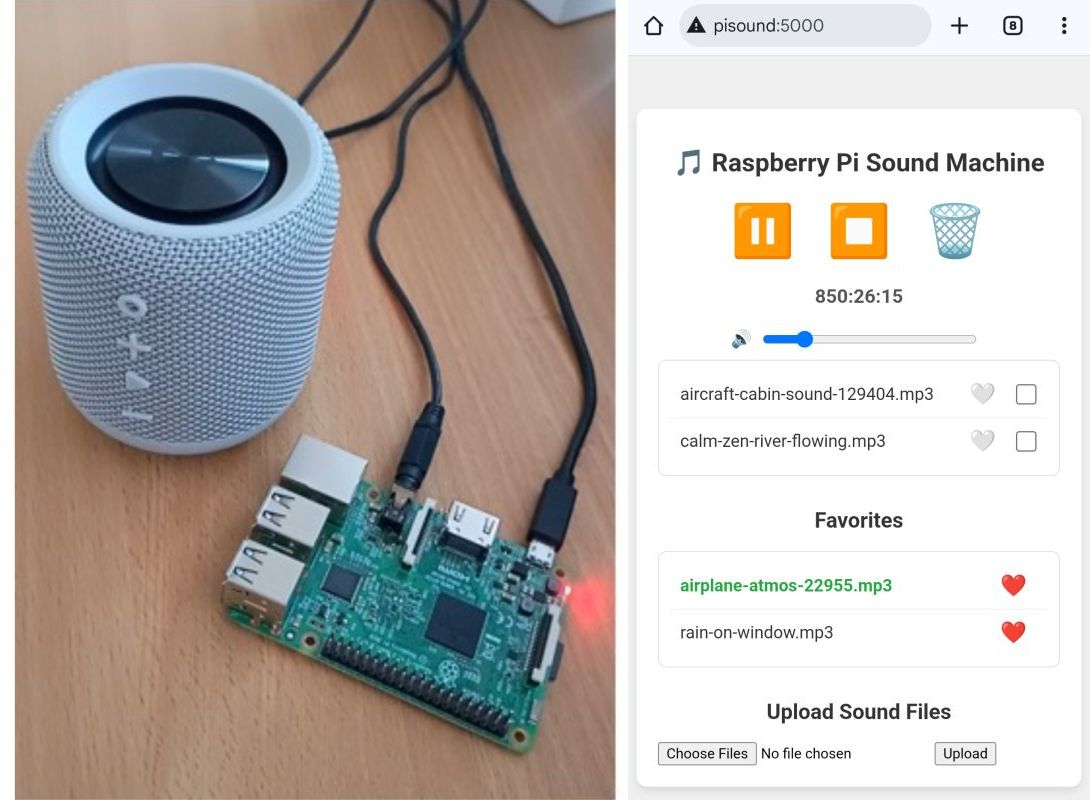
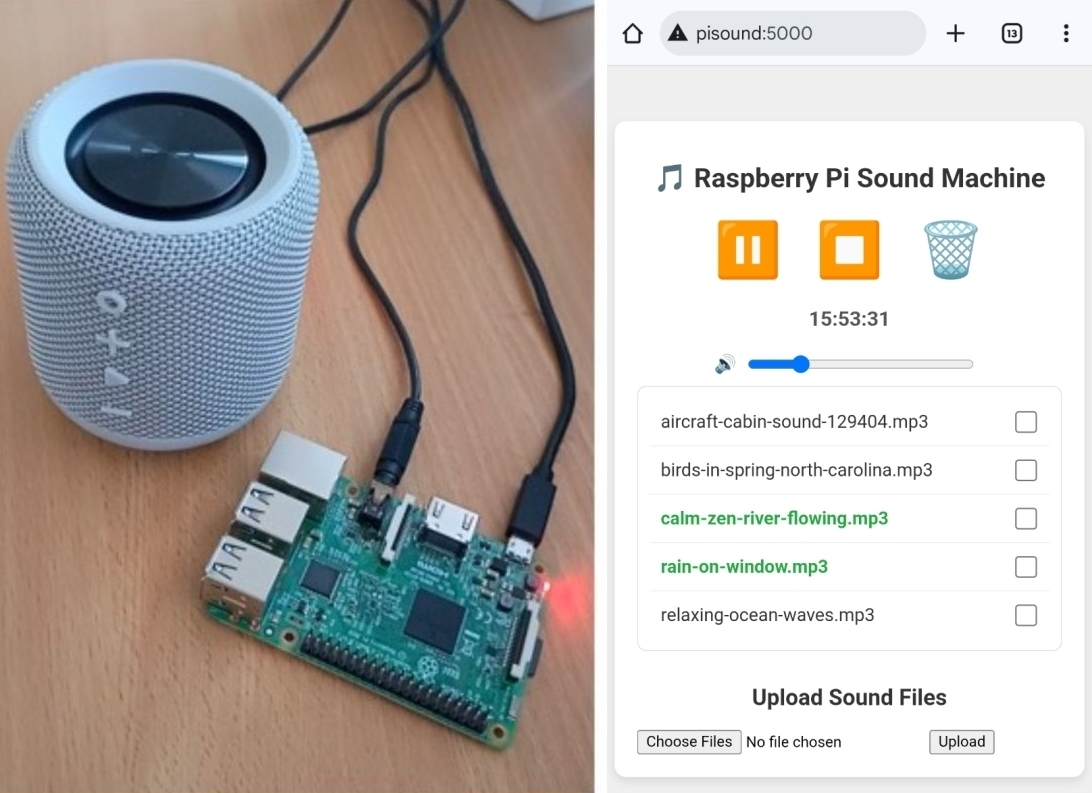
removal of favorites sounds (#37)

diff --git a/rpi_sound_machine/templates/index.html b/rpi_sound_machine/templates/index.html
@@ -50,7 +50,6 @@
                                 {{ sound_file }}
                             </a>
                             <div class="icon-group">
-                                <a href="/toggle_favorite/{{ sound_file }}" class="favorite-toggle">🤍</a>
                                 <input type="checkbox" name="files_to_delete" value="{{ sound_file }}" class="delete-checkbox">
                             </div>
                         </li>
@@ -58,28 +57,6 @@
                     </ul>
                 {% else %}
                     <p>No sound files uploaded.</p>
-                {% endif %}
-            </div>
-
-            <h2>Favorites</h2>
-            <div class="list-section">
-                {% if favorites %}
-                    <ul class="file-list">
-                        {% for sound_file in favorites %}
-                        <li class="file-list-item">
-                            <a href="#" class="file-name-link"
-                                data-file-name="{{ sound_file }}"
-                            >
-                                {{ sound_file }}
-                            </a>
-                            <div class="icon-group">
-                                <a href="/toggle_favorite/{{ sound_file }}" class="favorite-toggle">❤</a>
-                            </div>
-                        </li>
-                        {% endfor %}
-                    </ul>
-                {% else %}
-                    <p>No favorite sounds yet.</p>
                 {% endif %}
             </div>
         </form>

diff --git a/rpi_sound_machine/static/style.css b/rpi_sound_machine/static/style.css
@@ -52,14 +52,6 @@ hr { border: 0; border-top: 1px solid #ccc; margin: 20px 0; }
     align-items: center;
     flex-shrink: 0;
 }
-.favorite-toggle {
-    background: none;
-    border: none;
-    font-size: 20px;
-    cursor: pointer;
-    padding: 0 10px;
-    text-decoration: none;
-}
 .delete-checkbox {
     transform: scale(1.2);
     margin-left: 10px;

diff --git a/rpi_sound_machine/sound_machine.py b/rpi_sound_machine/sound_machine.py
@@ -25,8 +25,6 @@ pygame.mixer.set_num_channels(16)
 
 # Define the directory where your sound files are stored
 SOUND_DIR = Path(__file__).parent.parent / 'sounds'
-# Define the path for the favorites file
-FAVORITES_FILE = Path(__file__).parent.parent / 'favorites.txt'
 # Define the path for the volume file
 VOLUME_FILE = Path(__file__).parent.parent / 'volume.json'
 
@@ -83,38 +81,19 @@ class SoundControl:
         self.volume_save_timer = Timer(5.0, self.save_volume)
         self.volume_save_timer.start()
 
-    @staticmethod
-    def get_favorites() -> set[str]:
-        if not FAVORITES_FILE.is_file():
-            return set()
-        with Path.open(FAVORITES_FILE) as f:
-            return {line.strip() for line in f}
-
-    @staticmethod
-    def save_favorites(favorites_set: set[str]) -> None:
-        with Path.open(FAVORITES_FILE, 'w') as f:
-            f.writelines(f'{filename}\n' for filename in sorted(favorites_set))
-
 
 sound_control = SoundControl()
 
 
 @app.route('/')
 def home() -> BaseResponse:
-    all_files = [f.name for f in SOUND_DIR.glob('*') if f.is_file()]
-    favorites_set = sound_control.get_favorites()
-
-    # Separate the files into favorites and non-favorites
-    favorite_files = sorted([f for f in all_files if f in favorites_set])
-    non_favorite_files = sorted([f for f in all_files if f not in favorites_set])
-
+    sound_files = sorted([f.name for f in SOUND_DIR.glob('*') if f.is_file()])
     sound_state = sound_control.get_state_as_dict()
 
     return render_template(
         'index.html',
         sound_state=sound_state,
-        sound_files=non_favorite_files,
-        favorites=favorite_files,
+        sound_files=sound_files,
     )
 
 
@@ -239,7 +218,6 @@ def upload_file() -> BaseResponse:
 def delete_files() -> BaseResponse:
     files_to_delete = request.form.getlist('files_to_delete')
     if files_to_delete:
-        favorites_set = sound_control.get_favorites()
         for filename in files_to_delete:
             file_path = SOUND_DIR / filename
             if file_path.is_file():
@@ -250,22 +228,8 @@ def delete_files() -> BaseResponse:
                         sound_control.current_sounds.remove(filename)
                     file_path.unlink()
                     print(f'Deleted file: {filename}')
-                    if filename in favorites_set:
-                        favorites_set.remove(filename)
                 except OSError as e:
                     print(f'Error deleting file {filename}: {e}')
-        sound_control.save_favorites(favorites_set)
-    return redirect(url_for('home'))
-
-
-@app.route('/toggle_favorite/<sound_file>')
-def toggle_favorite(sound_file: str) -> BaseResponse:
-    favorites_set = sound_control.get_favorites()
-    if sound_file in favorites_set:
-        favorites_set.remove(sound_file)
-    else:
-        favorites_set.add(sound_file)
-    sound_control.save_favorites(favorites_set)
     return redirect(url_for('home'))
 
 
@@ -282,8 +246,6 @@ def main() -> None:
     print()
 
     SOUND_DIR.mkdir(exist_ok=True)
-    if not FAVORITES_FILE.is_file():
-        FAVORITES_FILE.touch()
 
     # Load volume on startup
     sound_control.load_volume()

diff --git a/test/unit_test/test_sound_machine.py b/test/unit_test/test_sound_machine.py
@@ -63,14 +63,11 @@ def setup_test_environment(tmp_path: Path, monkeypatch: pytest.MonkeyPatch) -> d
     from rpi_sound_machine import sound_machine  # noqa: PLC0415 `import` should be at the top-level of a file
     sounds_dir = tmp_path / 'sounds'
     sounds_dir.mkdir()
-    favorites_file = tmp_path / 'favorites.txt'
-    favorites_file.touch()
     volume_file = tmp_path / 'volume.json'
     with volume_file.open('w') as f:
         json.dump({'volume': 0.5}, f)
 
     monkeypatch.setattr(sound_machine, 'SOUND_DIR', sounds_dir)
-    monkeypatch.setattr(sound_machine, 'FAVORITES_FILE', favorites_file)
     monkeypatch.setattr(sound_machine, 'VOLUME_FILE', volume_file)
 
     monkeypatch.setattr(sound_machine.sound_control, 'global_volume', 0.5)
@@ -85,7 +82,6 @@ def setup_test_environment(tmp_path: Path, monkeypatch: pytest.MonkeyPatch) -> d
 
     return {
         'sounds_dir': sounds_dir,
-        'favorites_file': favorites_file,
         'volume_file': volume_file,
         'sound_machine': sound_machine,
     }
@@ -175,23 +171,6 @@ def test_delete_file(client: FlaskClient, setup_test_environment: dict[str, Any]
     response = client.post('/delete_files', data={'files_to_delete': 'test.wav'})
     assert response.status_code == HTTPStatus.FOUND
     assert not (sounds_dir / 'test.wav').exists()
-
-
-def test_toggle_favorite(client: FlaskClient, setup_test_environment: dict[str, Any]) -> None:
-    """Test toggling a favorite."""
-    favorites_file = setup_test_environment['favorites_file']
-
-    # Add to favorites
-    response = client.get('/toggle_favorite/test.wav')
-    assert response.status_code == HTTPStatus.FOUND
-    with favorites_file.open() as f:
-        assert 'test.wav' in f.read()
-
-    # Remove from favorites
-    response = client.get('/toggle_favorite/test.wav')
-    assert response.status_code == HTTPStatus.FOUND
-    with favorites_file.open() as f:
-        assert 'test.wav' not in f.read()
 
 
 def test_set_volume(client: FlaskClient, setup_test_environment: dict[str, Any], mocker: MagicMock) -> None:

diff --git a/README.md b/README.md
@@ -46,14 +46,9 @@ I found some good sounds here: [Pixabay Free Sounds](https://pixabay.com/sound-e
 
 #### Playing Sounds
 
-* **Play a sound**: Click on the name of a sound file in either the "Sound Files" or "Favorites" list to start playing it.
+* **Play a sound**: Click on the name of a sound file in the "Sound Files" list to start playing it.
  The sound will loop continuously.
 * **Play multiple sounds**: You can play multiple sounds at the same time by clicking on additional sound files.
-
-#### Favorites
-
-* **Add to favorites**: To add a sound to your favorites, click 🤍 next to the file name.
-* **Remove from favorites**: To remove a sound from your favorites, click ❤ next to the file name in the "Favorites" list.
 
 #### Controls
 
@@ -92,37 +87,34 @@ To get a list of RPI remote tool commands then execute ```just rpi``` (on the PC
 
 Example of running a command: ```just rpi check```.
 ```
+Python version: 3.13
 Create SSH connection to pi@pisound
 
-== Remote command to RPI: make stop-app
-python developer_tools/application_utilities.py --stop-application
-UTC time: 2025-11-29 12:38:21
-Python version: 3.11
+== Remote command to RPI: make check
+python developer_tools/application_utilities.py --check
+UTC time: 2026-01-18 16:28:47
+Python version: 3.13
+System service "sound-machine.service" status: running
+  ● sound-machine.service - Sound Machine
+       Loaded: loaded (/etc/systemd/system/sound-machine.service; enabled; preset: enabled)
+       Active: active (running) since Sun 2026-01-18 16:28:14 UTC; 33s ago
+   Invocation: 5b5f1252b67e42078ddfa41ee3fa4bfb
+     Main PID: 11990 (sound-machine-s)
+        Tasks: 10 (limit: 759)
+          CPU: 7.995s
+       CGroup: /system.slice/sound-machine.service
+               ├─11990 /bin/bash /usr/local/bin/sound-machine-start.sh
+               ├─11991 /snap/astral-uv/1258/bin/uv run --no-group dev sound_machine.py
+               └─12072 /home/pi/rpi_sound_machine/.venv/bin/python3 sound_machine.py
+
+  Jan 18 16:28:28 pisound sound-machine-start.sh[12072]: UTC time: 2026-01-18 16:28:28
+  Jan 18 16:28:28 pisound sound-machine-start.sh[12072]: Python version: 3.13
+  Jan 18 16:28:28 pisound sound-machine-start.sh[12072]: Volume file not found, using default 0.5
 Running processes of "sound_machine.py":
-  USER      PID %CPU %MEM    VSZ   RSS TTY  STAT START   TIME COMMAND
-  pi     103220  0.4  3.1 217756 28816 ?    Sl   12:36   0:00 /snap/astral-uv/1086/bin/uv run --no-group dev sound_machine.py
-  pi     103251  5.3  4.7 233252 44072 ?    Sl   12:36   0:07 /home/pi/rpi_sound_machine/.venv/bin/python3 sound_machine.py
-Killing process ".venv/bin/python...sound_machine.py". PID(s): 103251
-Failed to kill "sound_machine.py" (PID 103251) with SIGTERM
-Successfully killed PID 103251 with SIGINT
-
-== Remote command to RPI: make kill-tmux
-python developer_tools/application_utilities.py --kill-tmux
-UTC time: 2025-11-29 12:38:25
-Python version: 3.11
-There is no tmux session for "sound" to close!
-
-== Remote command to RPI: make stop-service
-python developer_tools/application_utilities.py --stop-service
-UTC time: 2025-11-29 12:38:25
-Python version: 3.11
-Removing service sound-machine.service
-
-== Remote command to RPI: make start-service
-python developer_tools/application_utilities.py --start-service
-UTC time: 2025-11-29 12:38:28
-Python version: 3.11
-Service "sound-machine.service" has been started successfully!
+  USER         PID %CPU %MEM    VSZ   RSS TTY   STAT START   TIME COMMAND
+  pi         11991 10.8  4.2 613312 39084 ?     Sl   16:28   0:03 /snap/astral-uv/1258/bin/uv run --no-group dev sound_machine.py
+  pi         12072 17.6  5.1 236368 48228 ?     Sl   16:28   0:04 /home/pi/rpi_sound_machine/.venv/bin/python3 sound_machine.py
+Tmux session "sound": session does not exist
 ```
 
 Some of the connections to the RPI are using [tmux](https://github.com/tmux/tmux/wiki) terminal on the RPI.<br>
